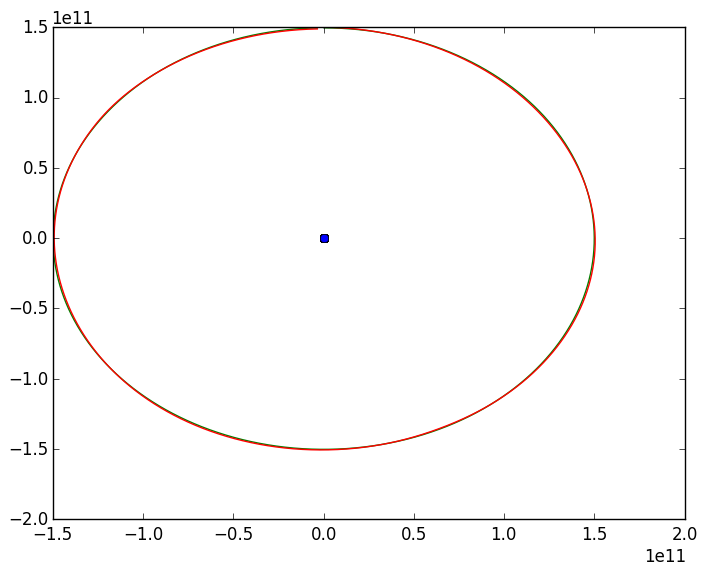
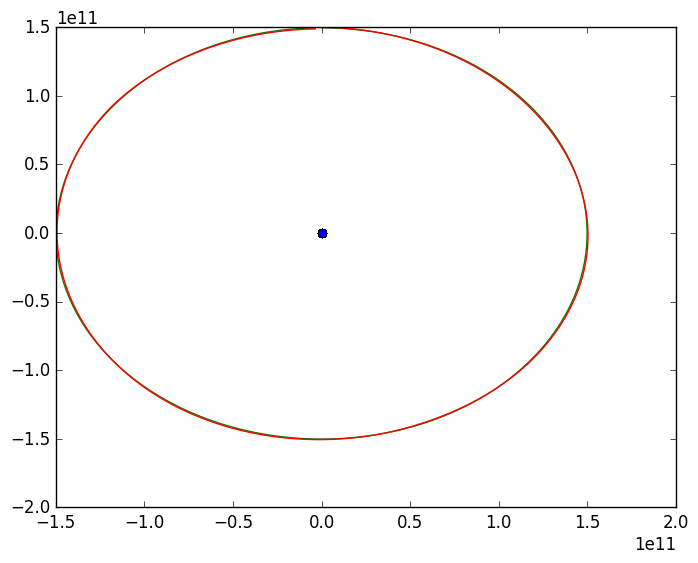
Eccentric orbits work?..... make sure

diff --git a/Verlet_main.py b/Verlet_main.py
@@ -4,15 +4,13 @@ Created on Tue Oct 18 09:11:38 2016
 
 @author: Admin
 """
-
 from __future__ import division
 import numpy as np 
 from numpy import linalg as LA
 
-from Verlet_IC_EMS import *
+from Verlet_IC_Ecc import *
 
 #####################
-
 
 def Verp(ovel, opos, dt, a):
     "Position:"
@@ -44,7 +42,6 @@ def acc(pos, mass, vel, e):
             pe[i] += -(G*mass[i]*mass[j])/(m+e) # Check PE
             pe[j] += -(G*mass[j]*mass[i])/(m+e)
 
-            
     return a, pe
 
 def KE(vel, mass):
@@ -57,41 +54,45 @@ def KE(vel, mass):
 
     return ke
 
+t = 0; acs = []
+
 while t < t_max:   
     
     ac, pe = acc(pos, mass, vel, e)
     
     ke = KE(vel,mass)
+    
+    a_o = (LA.norm(ac, axis = 1)); acs.append(a_o); acceleration = np.asarray(acs)
+    
+    dt_grav =  np.min([dt_max, np.sqrt((2*n*e)/np.max(a_o))])
 
-    dt_grav =  np.min([dt_max,((2*n*e)/(np.max(LA.norm(ac, axis = 1))))**.5])
-
-    T.append(t + dt_grav)
     print(t/t_max)*100 
-
+    T.append(t + dt_grav)
+    dT.append(dt_grav)    
+    
     "Verlet Method"
-    opos = pos
-    ovel = vel
+    opos = pos; ovel = vel
 
-    pos = Verp(ovel, opos, dt_grav, ac)
-    vel = Verv(pos, mass, ovel, dt_grav, ac, e)
+    pos = Verp(ovel, opos, dt_max, ac)
+    vel = Verv(pos, mass, ovel, dt_max, ac, e)
 
     t += dt_grav
     
-    """dump pos into file"""
+    """Dump pos into file"""
     a.append(pos[0])
     A = np.asarray(a)
     b.append(pos[1])
     B = np.asarray(b)
-    c.append(pos[2])    
-    C = np.asarray(c)
-    """dump energies into file"""
+#    c.append(pos[2])    
+#    C = np.asarray(c)
+    """Dump energies into file"""
     Ta.append(pe[0] + ke[0])
     Ea = np.asarray(Ta)
     Tb.append(pe[1] + ke[1])
     Eb = np.asarray(Tb)
-    Tc.append(pe[2] + ke[2])
-    Ec =  np.asarray(Tc)
-    Tsum.append(Ea + Eb + Ec)
+#    Tc.append(pe[2] + ke[2])
+#    Ec =  np.asarray(Tc)
+    Tsum.append(pe[0] + ke[0] + pe[1] + ke[1]) # + pe[2] + ke[2])
     Esum =  np.asarray(Tsum)
     
     if t == t_max:

diff --git a/Verlet_Plot.py b/Verlet_Plot.py
@@ -15,15 +15,26 @@ plt.close('all')
 
 fig = plt.figure()
 ax = fig.add_subplot(111, projection='3d')
-plt.plot(A[:,0],A[:,1],A[:,2],'o'); plt.plot(B[:,0],B[:,1],B[:,2]) ; plt.plot(C[:,0],C[:,1],C[:,2])
+plt.plot(A[:,0],A[:,1],A[:,2],'o'); plt.plot(B[:,0],B[:,1],B[:,2]) #; plt.plot(C[:,0],C[:,1],C[:,2])
 
 plt.figure()
-plt.plot(T, Ea/Esum, color = 'blue'), plt.plot(T, Eb/Esum, color = 'red'); plt.plot(T, ((Ea/Esum)+(Eb/Esum)), color = 'black') ; plt.plot(T, Ec/Esum, color = 'green')
+plt.plot(T, Ea/Esum, color = 'blue'), plt.plot(T, Eb/Esum, color = 'red'); plt.plot(T, ((Ea/Esum)+(Eb/Esum)), color = 'black') #; plt.plot(T, Ec/Esum, color = 'green')
 
 fig = plt.figure()
-plt.plot(A[:,0],A[:,1], 'o'); plt.plot(B[:,0],B[:,1]) ; plt.plot(C[:,0],C[:,1])
-plt.savefig('Graph of EMS.png', bbox_inches='tight') 
+plt.plot(A[:,0],A[:,1], 'o'); plt.plot(B[:,0],B[:,1], 'o') #; plt.plot(C[:,0],C[:,1])
+plt.savefig('Graph of Ecc_.png', bbox_inches='tight') 
 
-#plt.xlim(-5e14,5e14); plt.ylim(-5e14,5e14)
+#plt.xlim(-6e14,6e14); plt.ylim(-6e14,6e14)
+
+plt.figure()
+plt.plot(T, acceleration[:,1])
 
 plt.show()
+
+
+T_max = np.max(dT)
+T_min = np.min(dT)
+T_Ratio = T_max/T_min
+
+acc_min = np.min(acceleration[:,1])
+acc_max = np.max(acceleration[:,1])

diff --git a/Verlet_IC_Ecc.py b/Verlet_IC_Ecc.py
@@ -4,20 +4,20 @@ Created on Thu Nov 24 22:29:44 2016
 
 @author: Admin
 """
-
 from __future__ import division
 import numpy as np 
 
-AU = 149597871000; A = 3000*AU
-Ms = 1.989*10**30
-Me = 5.972*10**24
+AU = 149597871000; A = 200*AU
+Ms = 1.989e30
+Me = 5.972e24
+Year = 3.1556e7
 
 "Defining Variables"
 N = 2
-t_max = 3.1556e7*(150.11e3); t = 0
-dt_max = t_max/500
+t_max = Year*(.65e3)  #1.25e3 for dt_grav and .65e3 for dt_max
+dt_max = t_max/200
 
-V =  2*(2*np.pi*A)/t_max
+V =  (2*np.pi*A)/(Year*(5.5e3))
 
 mass = np.array([Ms,Me])
 
@@ -25,15 +25,13 @@ pos = np.zeros((N,3))
 vel = np.zeros((N,3))
 
 pos[1] = np.array([0,A,0])
-vel[1] = np.array([V/3,0,0])
+vel[1] = np.array([V,0,0])
 
-
-e = 0.6*AU; n = 2
-
+e = 0.05*AU; n = 0.05
 
 a = []; Ta = []
 b = []; Tb = []
 
 Tsum = []
 
-T = [] 
+T = []; dT = []

diff --git a/Verlet_IC_EMS.py b/Verlet_IC_EMS.py
@@ -4,14 +4,13 @@ Created on Thu Nov 24 22:29:44 2016
 
 @author: Admin
 """
-
 from __future__ import division
 import numpy as np 
 
 AU = 149597871000
-Ms = 1.989*10**30
-Me = 5.972*10**24
-Mm = 7.342*10**22
+Ms = 1.989e30
+Me = 5.972e24
+Mm = 7.342e22
 
 "Defining Variables"
 N = 3
